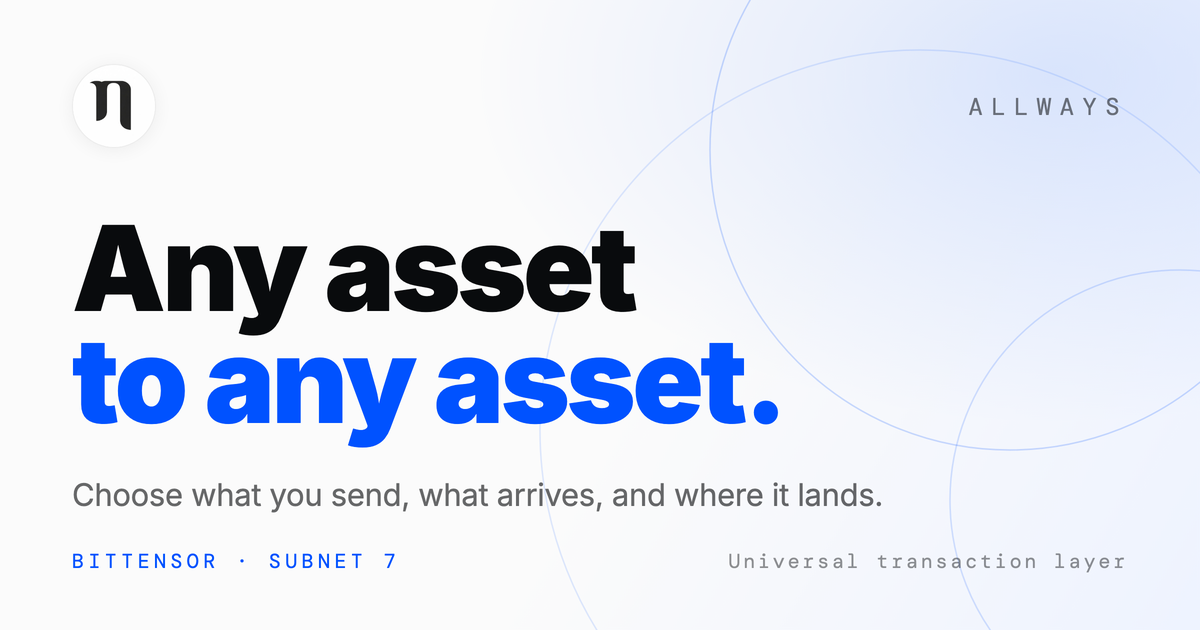
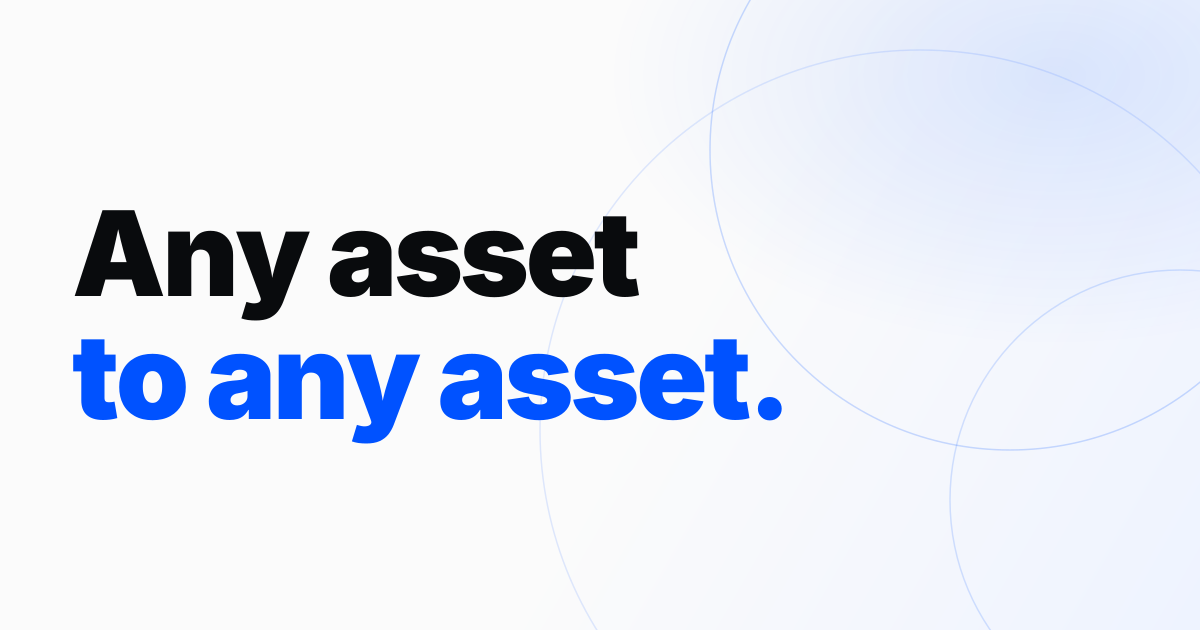
Per-route OG metadata: Cloudflare meta-injector + refreshed brand card
- .cloudflare/cloudflare-worker-meta-injector.js: rewrites title/og/twitter
  tags per route for crawlers (same pattern as gittensor-ui). /swap/:swapId
  gets a title like "0.10 SOL to 0.12 TAO" (plain 'to' — U+2192 tofu-boxes
  in some platform fonts), a description with transaction number and
  finalization time, and og:image pointed at the das-allways /og-image
  endpoint. All other routes get the brand card.
- index.html: static fallback titles reduced to "Allways" — the og image
  itself carries the tagline now.
- public/og/allways-og.png: regenerated from the new minimal brand card
  (headline only); template html updated to match, with a note that the
  satori template in das-allways is now canonical.

diff --git a/.cloudflare/cloudflare-worker-meta-injector.js b/.cloudflare/cloudflare-worker-meta-injector.js
@@ -1,0 +1,218 @@
+/**
+ * Cloudflare Worker - Dynamic Meta Tag Injector for Allways
+ *
+ * Deployed on the all-ways.io zone in front of the SPA. Crawlers don't run
+ * JS, so this rewrites <head> meta tags per route and points og:image at
+ * the API's dynamic card renderer (das-allways GET /og-image).
+ *
+ * Same architecture as gittensor-ui's meta injector; adapted for Allways'
+ * path-param routes (/swap/:swapId) instead of query-param routes.
+ */
+
+// Point both at the matching environment when deploying to the test zone
+// (test.all-ways.io -> https://test-api.all-ways.io).
+const API_BASE = "https://api.all-ways.io";
+const SITE_BASE = "https://all-ways.io";
+
+addEventListener("fetch", (event) => {
+  event.respondWith(handleRequest(event.request));
+});
+
+async function handleRequest(request) {
+  const url = new URL(request.url);
+
+  // Only process HTML requests
+  const accept = request.headers.get("Accept") || "";
+  const isHtmlRequest =
+    accept.includes("text/html") ||
+    url.pathname === "/" ||
+    !url.pathname.includes(".");
+
+  // Fetch the original response
+  const response = await fetch(request);
+
+  // Only modify HTML responses
+  if (
+    !isHtmlRequest ||
+    !response.headers.get("content-type")?.includes("text/html")
+  ) {
+    return response;
+  }
+
+  const html = await response.text();
+  const modifiedHtml = await injectMetaTags(html, url);
+
+  return new Response(modifiedHtml, {
+    status: response.status,
+    statusText: response.statusText,
+    headers: response.headers,
+  });
+}
+
+// Mirror of allways-ui/src/utils/format.ts CHAIN_DECIMALS — keep in lockstep.
+const CHAIN_DECIMALS = {
+  btc: { exp: 1e8, digits: 8, symbol: "BTC" },
+  tao: { exp: 1e9, digits: 4, symbol: "TAO" },
+  sol: { exp: 1e9, digits: 4, symbol: "SOL" },
+};
+
+function formatAmount(raw, chain) {
+  const config = CHAIN_DECIMALS[(chain || "").toLowerCase()];
+  const val = parseInt(raw, 10);
+  if (!config || !Number.isFinite(val)) return null;
+  const fixed = (val / config.exp).toFixed(config.digits);
+  const trimmed = fixed.replace(/(\.\d\d[0-9]*?)0+$/, "$1").replace(/\.$/, "");
+  return `${trimmed} ${config.symbol}`;
+}
+
+const STATUS_LABELS = {
+  ACTIVE: "Active",
+  FULFILLED: "Fulfilled",
+  COMPLETED: "Completed",
+  TIMED_OUT: "Timed out",
+};
+
+// Mirror of das-allways og-images formatDurationSecs — full words.
+function formatDuration(secs) {
+  if (!Number.isFinite(secs) || secs < 0) return null;
+  const unit = (value, name) => `${value} ${name}${value === 1 ? "" : "s"}`;
+  if (secs < 60) return unit(Math.round(secs), "second");
+  if (secs < 3600) return unit(Math.round(secs / 60), "minute");
+  const hours = parseFloat((secs / 3600).toFixed(1));
+  return `${hours} hour${hours === 1 ? "" : "s"}`;
+}
+
+/**
+ * Inject dynamic meta tags based on URL
+ */
+async function injectMetaTags(html, url) {
+  const pathname = url.pathname;
+
+  // Fresh render per share while platform caches still apply per-URL.
+  const cacheBuster = Date.now();
+
+  // Just the name: the og image itself says "Any asset to any asset."
+  let title = "Allways";
+  let description =
+    "Choose what you send, what arrives, and where it lands. Delivery guaranteed. Bittensor Subnet 7.";
+  let image = `${API_BASE}/og-image?type=home&v=${cacheBuster}`;
+  let imageAlt =
+    "Allways — any asset to any asset. Universal transaction layer on Bittensor Subnet 7.";
+
+  // Swap detail page: /swap/:swapId
+  const swapMatch = pathname.match(/^\/swap\/(-?\d+)$/);
+  if (swapMatch) {
+    const swapId = swapMatch[1];
+    image = `${API_BASE}/og-image?type=swap&id=${encodeURIComponent(swapId)}&v=${cacheBuster}`;
+    title = "Swap on Allways";
+    description =
+      "Track this swap on Allways, the universal transaction layer on Bittensor Subnet 7.";
+    imageAlt = "Swap details on Allways.";
+
+    // Enrich title/description from the API so text matches the card.
+    // Any failure keeps the generic swap copy — never block the page.
+    try {
+      const apiResponse = await fetch(
+        `${API_BASE}/swaps/${encodeURIComponent(swapId)}`,
+      );
+      if (apiResponse.ok) {
+        const { swap } = await apiResponse.json();
+        if (swap) {
+          const source = formatAmount(swap.sourceAmount, swap.sourceChain);
+          const dest = formatAmount(
+            swap.deliveredAmount ?? swap.destAmount,
+            swap.destChain,
+          );
+          let status = STATUS_LABELS[swap.status] || swap.status;
+          // "Completed in 27 seconds" — same speed flex as the card
+          const duration = formatDuration(
+            parseInt(swap.completedAt, 10) - parseInt(swap.initiatedAt, 10),
+          );
+          if (swap.status === "COMPLETED" && duration) {
+            status = `Completed in ${duration}`;
+          }
+          const seq = swap.seq != null ? `Transaction #${swap.seq}` : "Swap";
+          if (source && dest) {
+            // Plain "to", not "→": title text renders in the platform's own
+            // font, and U+2192 tofu-boxes on some of them. No brand suffix —
+            // og:site_name and the domain line already carry it.
+            title = `${source} to ${dest}`;
+            // Positive claim only (no "no bridges/IOUs" negations) — state
+            // what it is: the native asset, on the destination chain
+            description = `${seq} · ${status}. The native asset, settled on the destination chain. Delivery guaranteed on Allways, Bittensor Subnet 7.`;
+            imageAlt = `${seq} on Allways: ${source} to ${dest}, ${status.toLowerCase()}.`;
+          }
+        }
+      }
+    } catch (error) {
+      console.error("Failed to fetch swap for meta tags:", error);
+    }
+  }
+
+  // Note: home page and all other paths use the default brand card set above
+
+  const canonicalUrl = `${SITE_BASE}${pathname}`;
+
+  // Replace meta tags - use [\s\S]*? to match across newlines (the source
+  // index.html wraps long content attributes onto their own line).
+  return html
+    .replace(/<title>[\s\S]*?<\/title>/i, `<title>${escapeHtml(title)}</title>`)
+    .replace(
+      /<meta name="title"[\s\S]*?\/>/i,
+      `<meta name="title" content="${escapeHtml(title)}" />`,
+    )
+    .replace(
+      /<meta name="description"[\s\S]*?\/>/i,
+      `<meta name="description" content="${escapeHtml(description)}" />`,
+    )
+    .replace(
+      /<meta property="og:url"[\s\S]*?\/>/i,
+      `<meta property="og:url" content="${escapeHtml(canonicalUrl)}" />`,
+    )
+    .replace(
+      /<meta property="og:title"[\s\S]*?\/>/i,
+      `<meta property="og:title" content="${escapeHtml(title)}" />`,
+    )
+    .replace(
+      /<meta property="og:description"[\s\S]*?\/>/i,
+      `<meta property="og:description" content="${escapeHtml(description)}" />`,
+    )
+    .replace(
+      /<meta property="og:image"[\s\S]*?\/>/i,
+      `<meta property="og:image" content="${escapeHtml(image)}" />`,
+    )
+    .replace(
+      /<meta property="og:image:alt"[\s\S]*?\/>/i,
+      `<meta property="og:image:alt" content="${escapeHtml(imageAlt)}" />`,
+    )
+    .replace(
+      /<meta (property|name)="twitter:title"[\s\S]*?\/>/i,
+      `<meta name="twitter:title" content="${escapeHtml(title)}" />`,
+    )
+    .replace(
+      /<meta (property|name)="twitter:description"[\s\S]*?\/>/i,
+      `<meta name="twitter:description" content="${escapeHtml(description)}" />`,
+    )
+    .replace(
+      /<meta (property|name)="twitter:image"[\s\S]*?\/>/i,
+      `<meta name="twitter:image" content="${escapeHtml(image)}" />`,
+    )
+    .replace(
+      /<meta (property|name)="twitter:image:alt"[\s\S]*?\/>/i,
+      `<meta name="twitter:image:alt" content="${escapeHtml(imageAlt)}" />`,
+    );
+}
+
+/**
+ * Escape HTML special characters
+ */
+function escapeHtml(text) {
+  const map = {
+    "&": "&amp;",
+    "<": "&lt;",
+    ">": "&gt;",
+    '"': "&quot;",
+    "'": "&#039;",
+  };
+  return text.replace(/[&<>"']/g, (m) => map[m]);
+}

diff --git a/public/og/allways-og.template.html b/public/og/allways-og.template.html
@@ -2,9 +2,14 @@
 <html>
 <head>
 <meta charset="utf-8" />
+<!--
+  Historical reference only: the canonical brand-card template now lives in
+  das-allways (src/og-images/templates/home.template.ts), and allways-og.png
+  is a render of GET /og-image. Keep this file visually in sync if edited.
+-->
 <link rel="preconnect" href="https://fonts.googleapis.com" />
 <link rel="preconnect" href="https://fonts.gstatic.com" crossorigin />
-<link href="https://fonts.googleapis.com/css2?family=DM+Mono:wght@400;500&family=Inter:wght@400;900&display=swap" rel="stylesheet" />
+<link href="https://fonts.googleapis.com/css2?family=Inter:wght@400;900&display=swap" rel="stylesheet" />
 <style>
   * { margin: 0; padding: 0; box-sizing: border-box; }
   html, body { width: 1200px; height: 630px; overflow: hidden; }
@@ -12,47 +17,20 @@
     position: relative;
     width: 1200px;
     height: 630px;
-    background:
-      radial-gradient(900px 540px at 88% 12%, rgba(0, 82, 255, 0.12), transparent 65%),
-      linear-gradient(120deg, #fbfbfb 55%, #eef3ff 100%);
+    background: linear-gradient(120deg, #fbfbfb 55%, #eef3ff 100%);
     font-family: 'Inter', sans-serif;
     color: #090b0d;
   }
   svg.circles { position: absolute; inset: 0; }
-  .inner { position: absolute; inset: 0; padding: 64px 72px; }
-  .toprow {
-    display: flex; justify-content: space-between; align-items: center;
-  }
-  .badge {
-    width: 84px; height: 84px; border-radius: 50%;
-    background: #ffffff; border: 1px solid rgba(9, 11, 13, 0.08);
-    box-shadow: 0 2px 18px rgba(9, 11, 13, 0.06);
-    display: flex; align-items: center; justify-content: center;
-    overflow: hidden;
-  }
-  .badge img { width: 86px; height: 86px; border-radius: 50%; }
-  .wordmark {
-    font-family: 'DM Mono', monospace; font-size: 24px; letter-spacing: 0.35em;
-    color: rgba(9, 11, 13, 0.55);
+  .inner {
+    position: absolute; inset: 0; padding: 0 72px;
+    display: flex; flex-direction: column; justify-content: center;
   }
   h1 {
-    margin-top: 64px;
-    font-size: 118px; font-weight: 900; line-height: 0.95;
+    font-size: 118px; font-weight: 900; line-height: 1.04;
     letter-spacing: -0.03em;
   }
   h1 .blue { color: #0052ff; }
-  .sub {
-    margin-top: 40px;
-    font-size: 31px; font-weight: 400; color: rgba(9, 11, 13, 0.62);
-    letter-spacing: -0.01em;
-  }
-  .bottomrow {
-    position: absolute; left: 72px; right: 72px; bottom: 56px;
-    display: flex; justify-content: space-between; align-items: baseline;
-    font-family: 'DM Mono', monospace; font-size: 20px;
-  }
-  .eyebrow { color: #0052ff; letter-spacing: 0.22em; }
-  .tagline { color: rgba(9, 11, 13, 0.45); letter-spacing: 0.14em; }
 </style>
 </head>
 <body>
@@ -63,16 +41,7 @@
       <circle cx="1180" cy="500" r="230" stroke="#0052ff" stroke-opacity="0.16" stroke-width="1.5" />
     </svg>
     <div class="inner">
-      <div class="toprow">
-        <div class="badge"><img src="ETA_SRC" /></div>
-        <div class="wordmark">ALLWAYS</div>
-      </div>
       <h1>Any asset<br /><span class="blue">to any asset.</span></h1>
-      <div class="sub">Choose what you send, what arrives, and where it lands.</div>
-      <div class="bottomrow">
-        <div class="eyebrow">BITTENSOR · SUBNET 7</div>
-        <div class="tagline">Universal transaction layer</div>
-      </div>
     </div>
   </div>
 </body>

diff --git a/index.html b/index.html
@@ -33,15 +33,15 @@
        Facebook/X/Discord/Telegram don't execute JS, so the react-helmet tags
        in SEO.tsx never reach them. Image URLs must be absolute for the same
        reason. The SPA overwrites title/description per page after hydration. -->
-  <title>Allways — Any asset to any asset</title>
-  <meta name="title" content="Allways — Any asset to any asset" />
+  <title>Allways</title>
+  <meta name="title" content="Allways" />
   <meta name="description"
     content="Choose what you send, what arrives, and where it lands. Delivery guaranteed. Bittensor Subnet 7." />
 
   <meta property="og:type" content="website" />
   <meta property="og:site_name" content="Allways" />
   <meta property="og:url" content="https://all-ways.io/" />
-  <meta property="og:title" content="Allways — Any asset to any asset" />
+  <meta property="og:title" content="Allways" />
   <meta property="og:description"
     content="Choose what you send, what arrives, and where it lands. Delivery guaranteed. Bittensor Subnet 7." />
   <meta property="og:image" content="https://all-ways.io/og/allways-og.png" />
@@ -50,7 +50,7 @@
   <meta property="og:image:alt" content="Allways — any asset to any asset. Universal transaction layer on Bittensor Subnet 7." />
 
   <meta name="twitter:card" content="summary_large_image" />
-  <meta name="twitter:title" content="Allways — Any asset to any asset" />
+  <meta name="twitter:title" content="Allways" />
   <meta name="twitter:description"
     content="Choose what you send, what arrives, and where it lands. Delivery guaranteed. Bittensor Subnet 7." />
   <meta name="twitter:image" content="https://all-ways.io/og/allways-og.png" />
